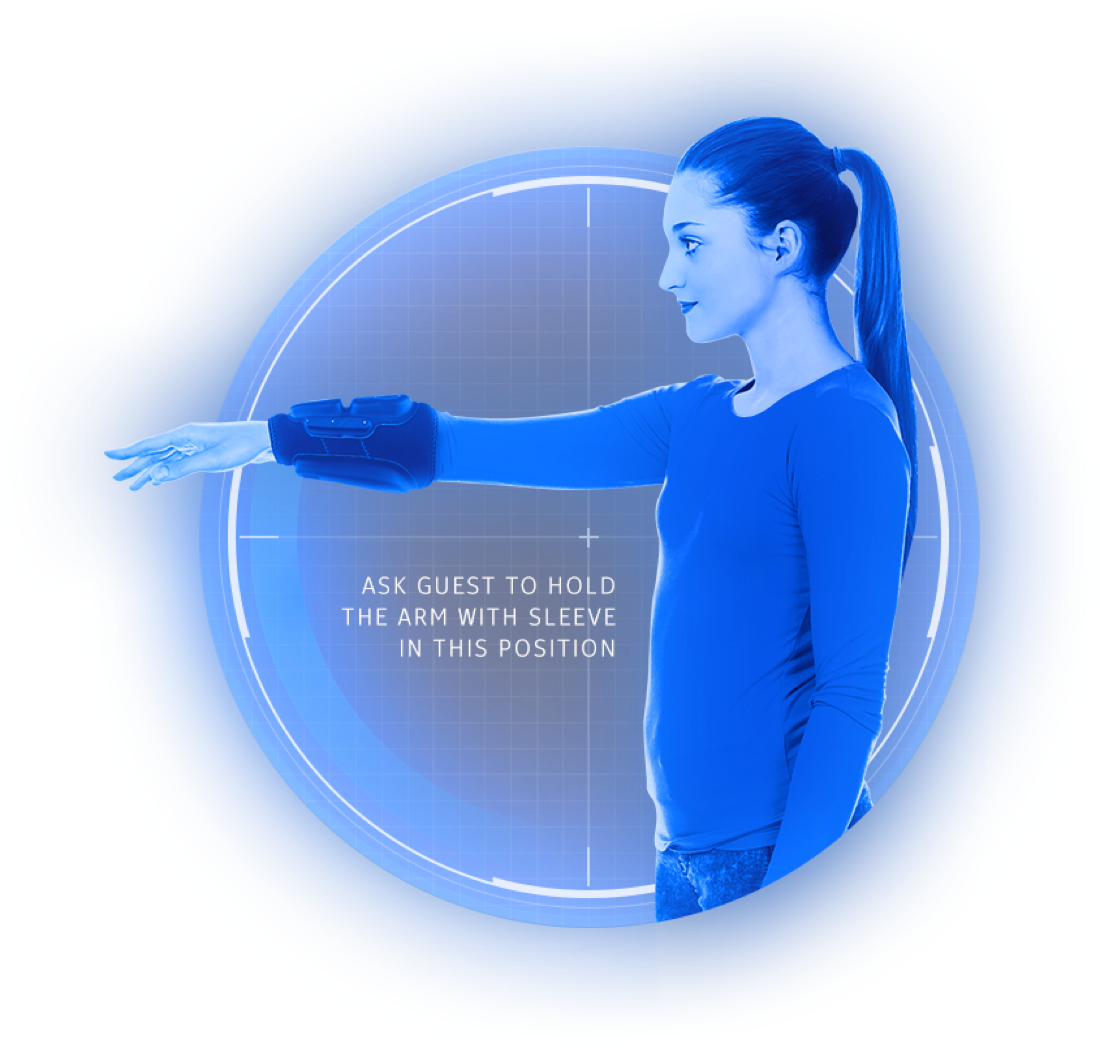
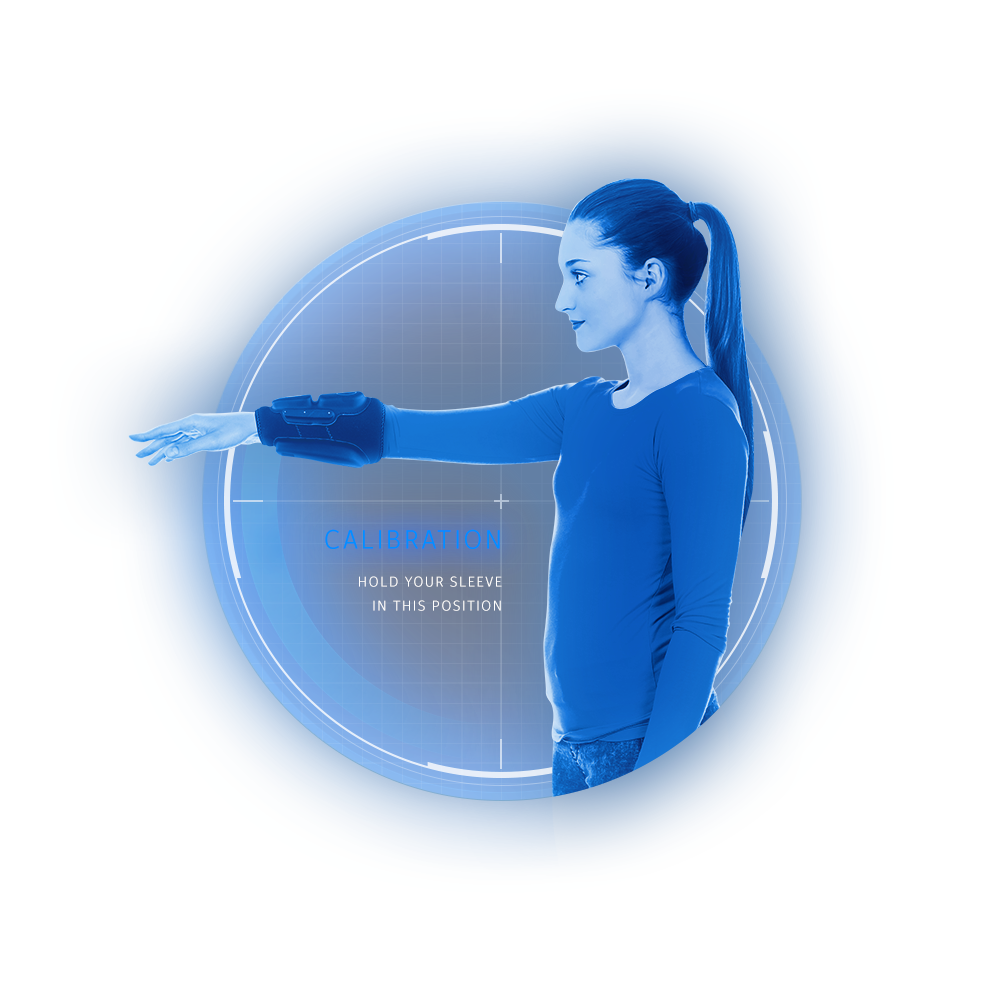
update section thumbnails, calibrate image, and side nav menu

diff --git a/api/experience-config.js b/api/experience-config.js
@@ -12,7 +12,7 @@ module.exports = {
           id: 1,
           title: 'Switching WAN to LAN',
           control: 'ar',
-          thumbnail: 'section-thumbnail.png',
+          thumbnail: 'section-01.png',
           text: 'As truck arrives it transfers from WAN to factory ' +
             'controlled LAN network;\n' +
             'Vehicles are autonomous, controlled by network.',
@@ -21,28 +21,28 @@ module.exports = {
           id: 2,
           title: 'Full Automated Factory',
           control: 'ar',
-          thumbnail: 'section-thumbnail.png',
+          thumbnail: 'section-02.png',
           text: 'A diversity of robots work together.',
         },
         {
           id: 3,
           title: 'Flexible Production',
           control: 'ar',
-          thumbnail: 'section-thumbnail.png',
+          thumbnail: 'section-03.png',
           text: 'Multiple products are made on the same factory floor.',
         },
         {
           id: 4,
           title: 'Robot Collaboration',
           control: 'ar',
-          thumbnail: 'section-thumbnail.png',
+          thumbnail: 'section-04.png',
           text: 'Some processes are highly synchronized.',
         },
         {
           id: 5,
           title: 'Control Room',
           control: '',
-          thumbnail: 'section-thumbnail.png',
+          thumbnail: 'section-05.png',
           text: 'People role is in control and decision making rather than ' +
             'on actual manufacturing/producing.\n' +
             'There will be more intuitive interfaces for human machine ' +
@@ -53,7 +53,7 @@ module.exports = {
           id: 6,
           title: 'Production Robot Management',
           control: '',
-          thumbnail: 'section-thumbnail.png',
+          thumbnail: 'section-06.png',
           text: 'A single expert can control multiple robots, ' +
             'increasing productivity.\nThe future factory constantly ' +
             'monitors its own state and can instantaneously and dynamically ' +
@@ -63,7 +63,7 @@ module.exports = {
           id: 7,
           title: 'Dynamic Floor Configuration',
           control: '',
-          thumbnail: 'section-thumbnail.png',
+          thumbnail: 'section-07.png',
           text: 'Human operators are alerted when anything anomalous ' +
             'occurs.\nChanges for factory optimization in response to ' +
             'changing needs are determined by AI software but ' +
@@ -83,7 +83,7 @@ module.exports = {
           id: 8,
           title: 'Dispatching a Drone',
           control: 'network',
-          thumbnail: 'section-thumbnail.png',
+          thumbnail: 'section-08.png',
           text: 'High speed network is capable of feeding high quality ' +
             'live streaming.\n\nDemonstrate the deference between 5G and ' +
             '4G/Wifi network',
@@ -95,7 +95,7 @@ module.exports = {
           sleeveCalibration: true,
           replayButton: true,
           acceptButton: true,
-          thumbnail: 'section-thumbnail.png',
+          thumbnail: 'section-09.png',
           text: 'High speed network is capable of remote operation with ' +
             'hand craft quality.',
         },
@@ -103,7 +103,7 @@ module.exports = {
           id: 10,
           title: 'Round Up',
           control: '',
-          thumbnail: 'section-thumbnail.png',
+          thumbnail: 'section-10.png',
           text: 'Facilitator gives summerized points about future ' +
             'manufacturing.',
         },

diff --git a/components/SideNavMenu.vue b/components/SideNavMenu.vue
@@ -155,12 +155,14 @@ nav
         font-family: "NokiaPureText-Regular"
         letter-spacing: 2px
         position: absolute
-        width: 200px
+        width: 230px
         height: 45px
         top: -22.5px
         left: 0
-        text-align: center
+        text-align: left
+        padding-left: 45px
         line-height: 45px
+        font-size: 14px
         z-index: 100
       .logout-item
         width: 100%

diff --git a/components/overlays/CalibrationOverlay.vue b/components/overlays/CalibrationOverlay.vue
@@ -62,11 +62,11 @@ export default {
     white-space: nowrap
 
   img.howtocalibrate
-    width: 550px
-    height: 523.31px
-    margin-top: -15px
+    width: 660px
+    height: 660px
+    margin-top: -80px
     margin-left: -15px
-    margin-bottom: -15px
+    margin-bottom: -100px
 
   p.sleeve-id
     height: 30px
